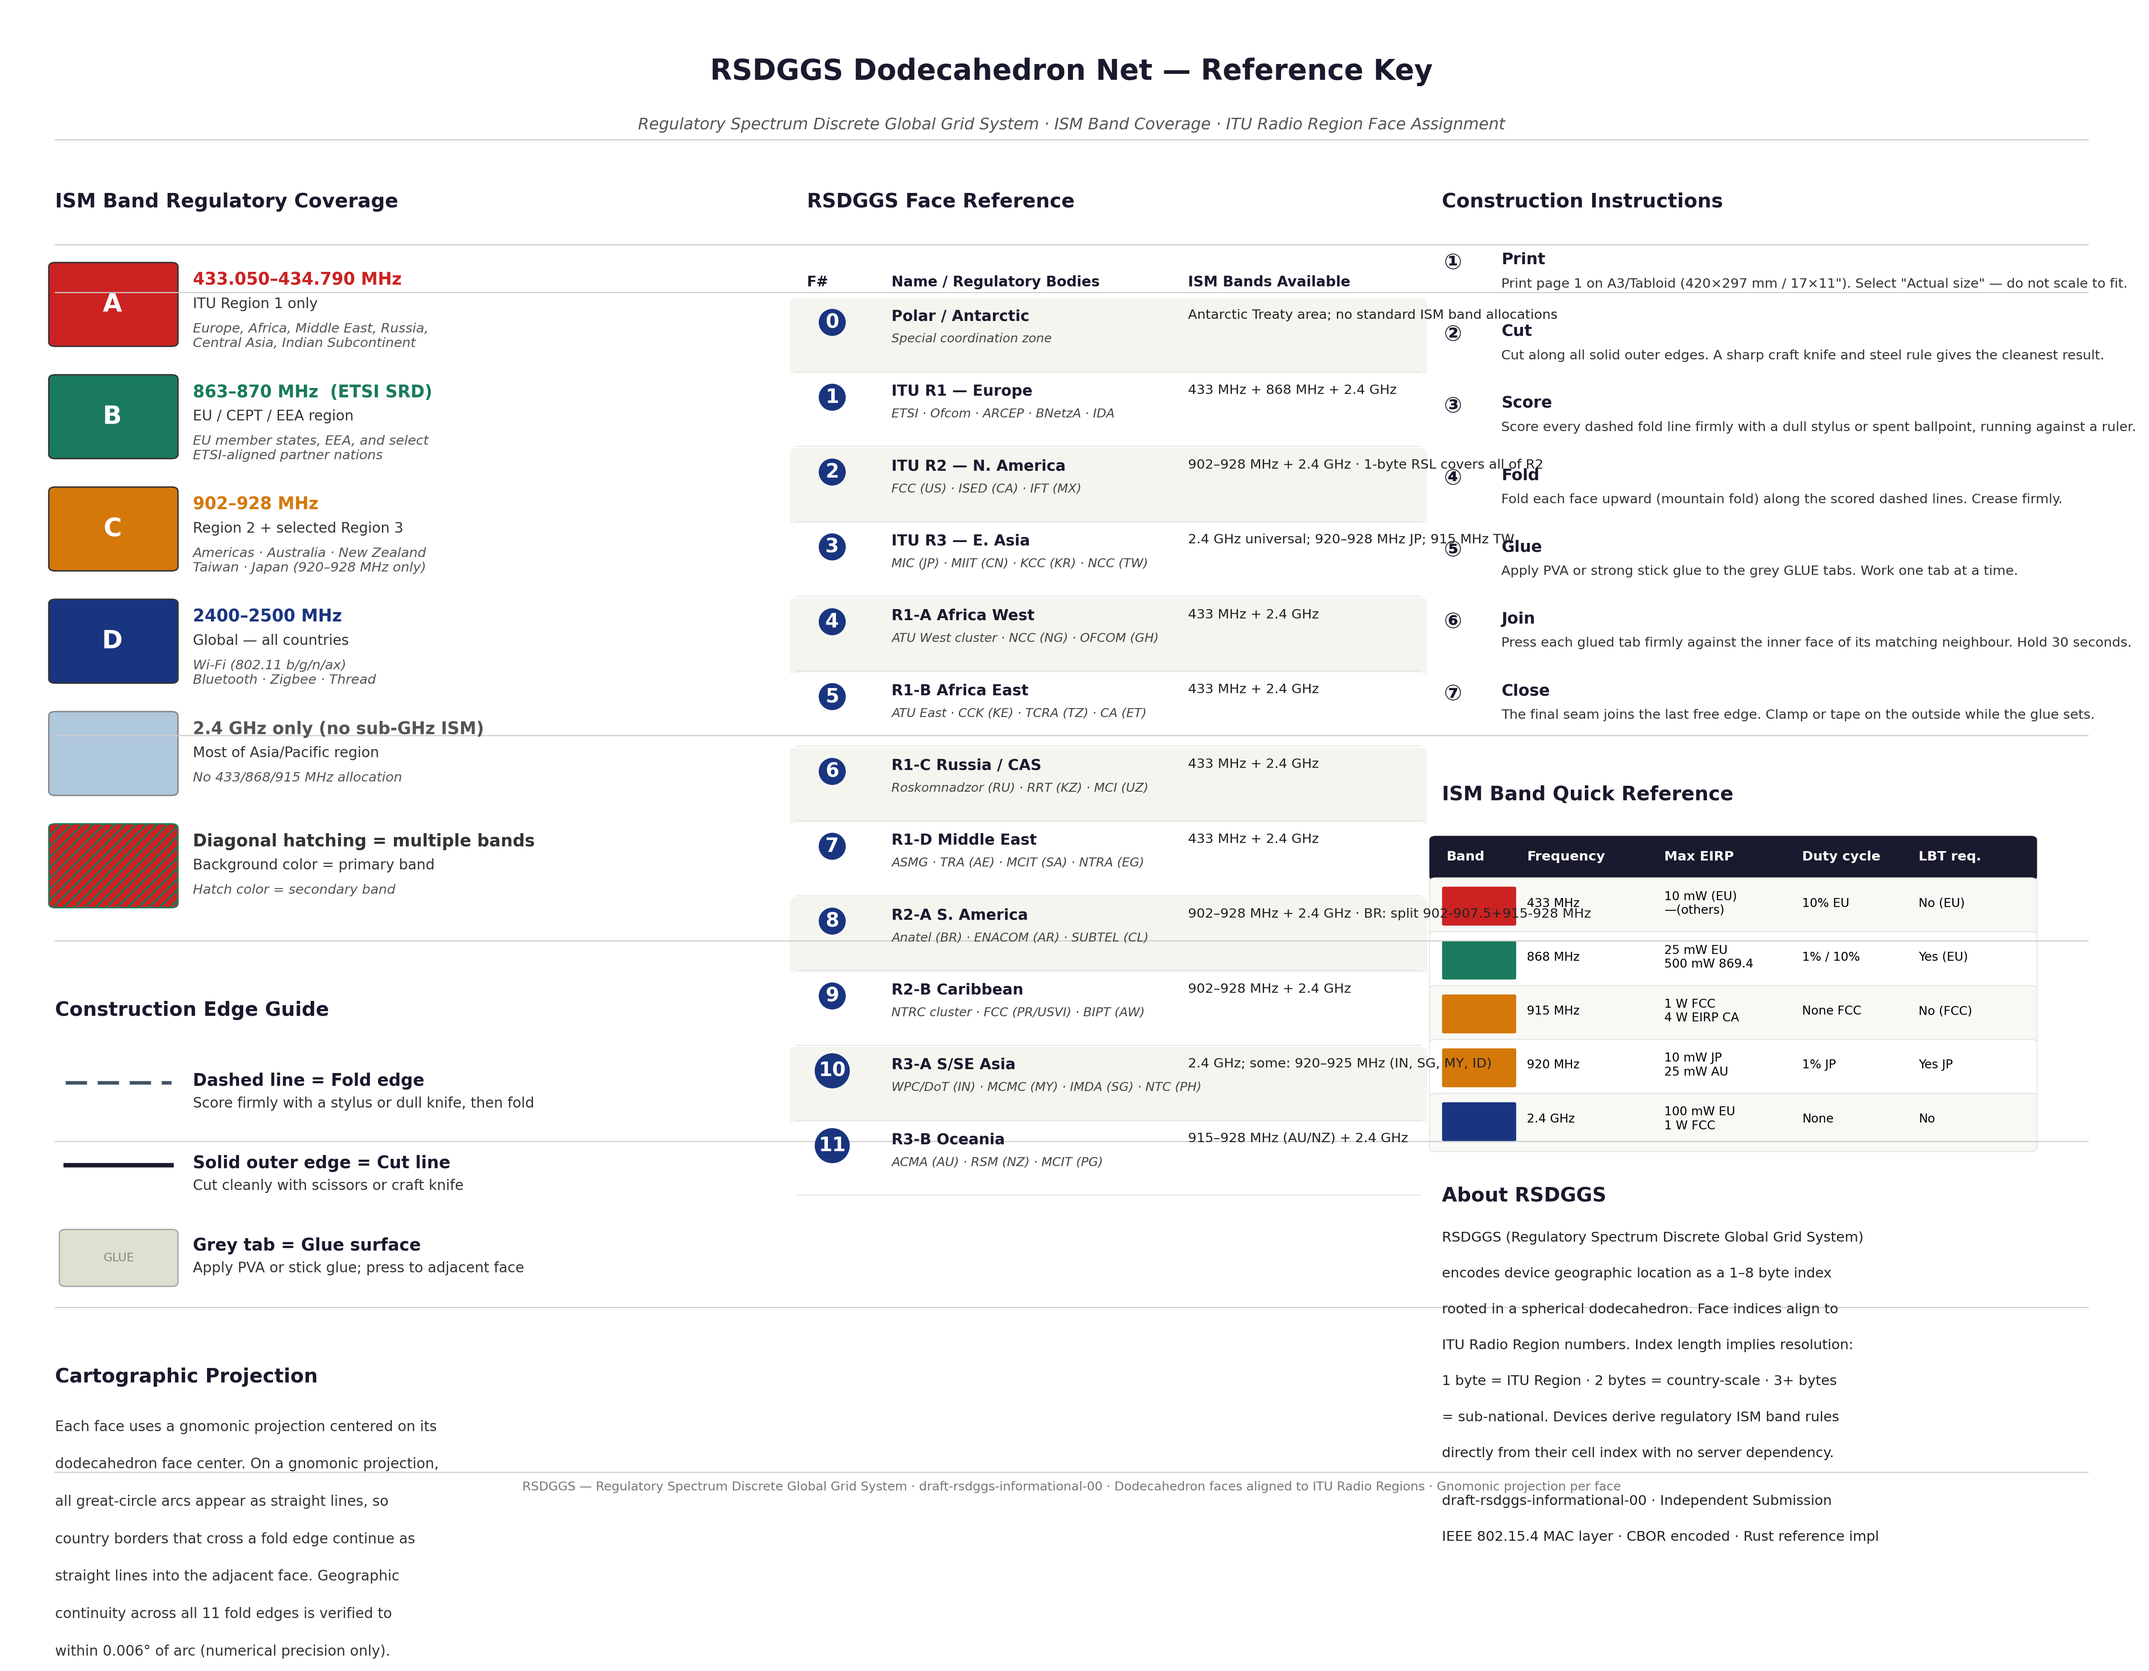
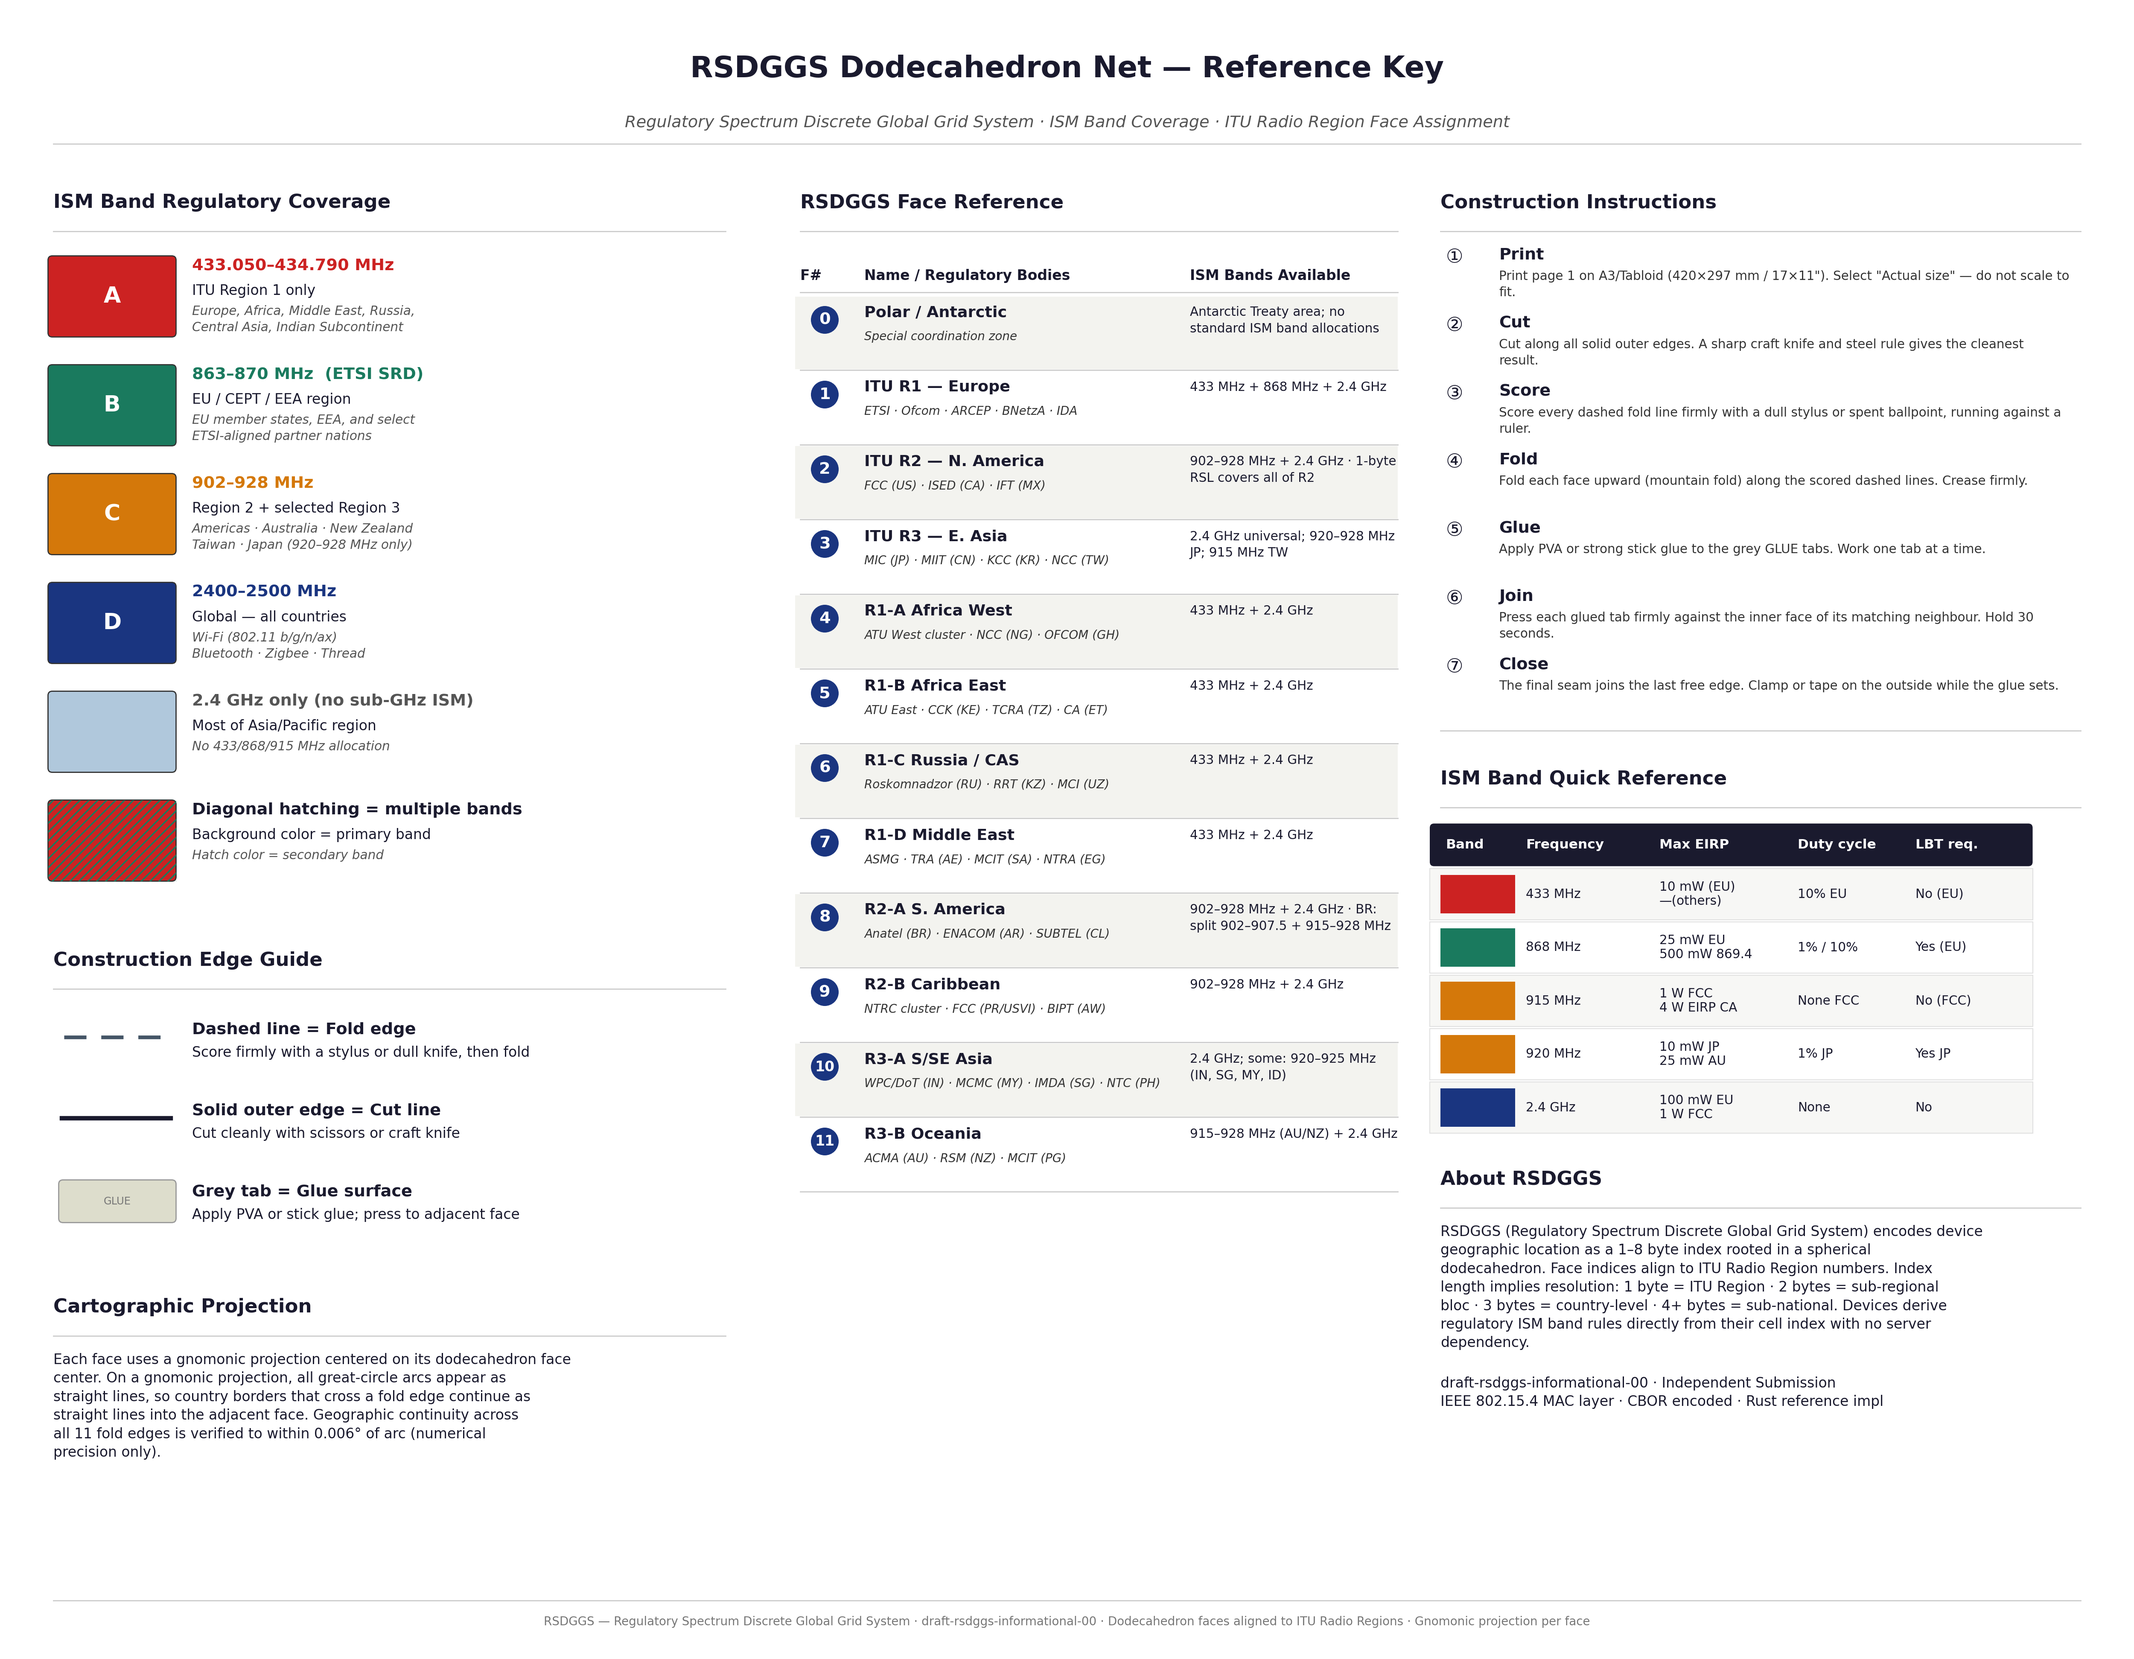
Regenerate Figure 2 (net reference key) from a script
The original PNG came from a matplotlib script that is not in the repo.
Redraw it with images/rsdggs_net_page2.py, keeping the layout and text,
and fix two things: the "About" resolution line now follows draft §5.2,
and long entries wrap inside their columns instead of overlapping.

diff --git a/images/rsdggs_net_page2.py b/images/rsdggs_net_page2.py
@@ -1,0 +1,239 @@
+"""Draw Figure 2 of draft-rsdggs-informational-00: the dodecahedron net reference key.
+
+    python images/rsdggs_net_page2.py    # writes images/rsdggs_net_page2.png
+
+Requires matplotlib (built with 3.10.8). Layout coordinates are in a 2000 x 1555
+grid with the origin at the top left.
+"""
+
+import textwrap
+from pathlib import Path
+
+import matplotlib
+
+matplotlib.use("Agg")
+import matplotlib.pyplot as plt
+from matplotlib.patches import Circle, FancyBboxPatch, Rectangle
+
+W, H = 2000, 1555
+INK = "#1A1A2E"
+GREY = "#555555"
+RULE = "#CCCCCC"
+SHADE = "#F3F3EF"
+NAVY = "#1A3580"
+
+BANDS = [
+    # letter, fill, hatch, title, title color, line, detail
+    ("A", "#CC2222", None, "433.050–434.790 MHz", "#CC2222", "ITU Region 1 only",
+     "Europe, Africa, Middle East, Russia,\nCentral Asia, Indian Subcontinent"),
+    ("B", "#1A7A5E", None, "863–870 MHz  (ETSI SRD)", "#1A7A5E", "EU / CEPT / EEA region",
+     "EU member states, EEA, and select\nETSI-aligned partner nations"),
+    ("C", "#D4780A", None, "902–928 MHz", "#D4780A", "Region 2 + selected Region 3",
+     "Americas · Australia · New Zealand\nTaiwan · Japan (920–928 MHz only)"),
+    ("D", NAVY, None, "2400–2500 MHz", NAVY, "Global — all countries",
+     "Wi-Fi (802.11 b/g/n/ax)\nBluetooth · Zigbee · Thread"),
+    ("", "#B0C8DC", None, "2.4 GHz only (no sub-GHz ISM)", GREY, "Most of Asia/Pacific region",
+     "No 433/868/915 MHz allocation"),
+    ("", "#CC2222", "#1A7A5E", "Diagonal hatching = multiple bands", INK,
+     "Background color = primary band", "Hatch color = secondary band"),
+]
+
+FACES = [
+    ("Polar / Antarctic", "Special coordination zone",
+     "Antarctic Treaty area; no standard ISM band allocations"),
+    ("ITU R1 — Europe", "ETSI · Ofcom · ARCEP · BNetzA · IDA", "433 MHz + 868 MHz + 2.4 GHz"),
+    ("ITU R2 — N. America", "FCC (US) · ISED (CA) · IFT (MX)",
+     "902–928 MHz + 2.4 GHz · 1-byte RSL covers all of R2"),
+    ("ITU R3 — E. Asia", "MIC (JP) · MIIT (CN) · KCC (KR) · NCC (TW)",
+     "2.4 GHz universal; 920–928 MHz JP; 915 MHz TW"),
+    ("R1-A Africa West", "ATU West cluster · NCC (NG) · OFCOM (GH)", "433 MHz + 2.4 GHz"),
+    ("R1-B Africa East", "ATU East · CCK (KE) · TCRA (TZ) · CA (ET)", "433 MHz + 2.4 GHz"),
+    ("R1-C Russia / CAS", "Roskomnadzor (RU) · RRT (KZ) · MCI (UZ)", "433 MHz + 2.4 GHz"),
+    ("R1-D Middle East", "ASMG · TRA (AE) · MCIT (SA) · NTRA (EG)", "433 MHz + 2.4 GHz"),
+    ("R2-A S. America", "Anatel (BR) · ENACOM (AR) · SUBTEL (CL)",
+     "902–928 MHz + 2.4 GHz · BR: split 902–907.5 + 915–928 MHz"),
+    ("R2-B Caribbean", "NTRC cluster · FCC (PR/USVI) · BIPT (AW)", "902–928 MHz + 2.4 GHz"),
+    ("R3-A S/SE Asia", "WPC/DoT (IN) · MCMC (MY) · IMDA (SG) · NTC (PH)",
+     "2.4 GHz; some: 920–925 MHz (IN, SG, MY, ID)"),
+    ("R3-B Oceania", "ACMA (AU) · RSM (NZ) · MCIT (PG)", "915–928 MHz (AU/NZ) + 2.4 GHz"),
+]
+
+STEPS = [
+    ("Print", 'Print page 1 on A3/Tabloid (420×297 mm / 17×11"). Select "Actual size" — '
+              "do not scale to fit."),
+    ("Cut", "Cut along all solid outer edges. A sharp craft knife and steel rule gives the "
+            "cleanest result."),
+    ("Score", "Score every dashed fold line firmly with a dull stylus or spent ballpoint, "
+              "running against a ruler."),
+    ("Fold", "Fold each face upward (mountain fold) along the scored dashed lines. "
+             "Crease firmly."),
+    ("Glue", "Apply PVA or strong stick glue to the grey GLUE tabs. Work one tab at a time."),
+    ("Join", "Press each glued tab firmly against the inner face of its matching neighbour. "
+             "Hold 30 seconds."),
+    ("Close", "The final seam joins the last free edge. Clamp or tape on the outside while "
+              "the glue sets."),
+]
+
+QUICK = [
+    ("#CC2222", "433 MHz", "10 mW (EU)\n—(others)", "10% EU", "No (EU)"),
+    ("#1A7A5E", "868 MHz", "25 mW EU\n500 mW 869.4", "1% / 10%", "Yes (EU)"),
+    ("#D4780A", "915 MHz", "1 W FCC\n4 W EIRP CA", "None FCC", "No (FCC)"),
+    ("#D4780A", "920 MHz", "10 mW JP\n25 mW AU", "1% JP", "Yes JP"),
+    (NAVY, "2.4 GHz", "100 mW EU\n1 W FCC", "None", "No"),
+]
+
+CARTOGRAPHY = (
+    "Each face uses a gnomonic projection centered on its dodecahedron face center. "
+    "On a gnomonic projection, all great-circle arcs appear as straight lines, so country "
+    "borders that cross a fold edge continue as straight lines into the adjacent face. "
+    "Geographic continuity across all 11 fold edges is verified to within 0.006° of arc "
+    "(numerical precision only)."
+)
+
+# Resolution per index length follows draft §5.2.
+ABOUT = (
+    "RSDGGS (Regulatory Spectrum Discrete Global Grid System) encodes device geographic "
+    "location as a 1–8 byte index rooted in a spherical dodecahedron. Face indices align "
+    "to ITU Radio Region numbers. Index length implies resolution: 1 byte = ITU Region · "
+    "2 bytes = sub-regional bloc · 3 bytes = country-level · 4+ bytes = sub-national. "
+    "Devices derive regulatory ISM band rules directly from their cell index with no "
+    "server dependency."
+)
+
+FOOTER = (
+    "RSDGGS — Regulatory Spectrum Discrete Global Grid System · draft-rsdggs-informational-00"
+    " · Dodecahedron faces aligned to ITU Radio Regions · Gnomonic projection per face"
+)
+
+
+def text(ax, x, y, s, size=9.5, color=INK, weight="normal", style="normal", **kw):
+    ax.text(x, y, s, fontsize=size, color=color, fontweight=weight, fontstyle=style,
+            va=kw.pop("va", "top"), ha=kw.pop("ha", "left"),
+            linespacing=kw.pop("linespacing", 1.4), **kw)
+
+
+def rule(ax, x0, x1, y):
+    ax.plot([x0, x1], [y, y], color=RULE, lw=0.8)
+
+
+def heading(ax, x0, x1, y, s):
+    text(ax, x0, y, s, size=13, weight="bold", va="baseline")
+    rule(ax, x0, x1, y + 22)
+
+
+def legend(ax, x0, x1):
+    heading(ax, x0, x1, 195, "ISM Band Regulatory Coverage")
+    for k, (letter, fill, hatch, title, tcolor, line, detail) in enumerate(BANDS):
+        y = 240 + 102 * k
+        box = FancyBboxPatch((x0 - 5, y), 120, 76, boxstyle="round,pad=0,rounding_size=4",
+                             facecolor=fill, edgecolor="#333333", lw=0.8)
+        ax.add_patch(box)
+        if hatch:
+            ax.add_patch(Rectangle((x0 - 5, y), 120, 76, fill=False, hatch="////",
+                                   edgecolor=hatch, lw=0))
+        if letter:
+            text(ax, x0 + 55, y + 38, letter, size=15, color="white", weight="bold",
+                 ha="center", va="center")
+        text(ax, x0 + 130, y + 2, title, size=11, color=tcolor, weight="bold")
+        text(ax, x0 + 130, y + 26, line, size=9.5)
+        text(ax, x0 + 130, y + 46, detail, size=8.5, color=GREY, style="italic")
+
+    heading(ax, x0, x1, 905, "Construction Edge Guide")
+    items = [
+        ("dash", "Dashed line = Fold edge", "Score firmly with a stylus or dull knife, then fold"),
+        ("solid", "Solid outer edge = Cut line", "Cut cleanly with scissors or craft knife"),
+        ("glue", "Grey tab = Glue surface", "Apply PVA or stick glue; press to adjacent face"),
+    ]
+    for k, (kind, title, line) in enumerate(items):
+        y = 960 + 76 * k
+        if kind == "dash":
+            ax.plot([x0 + 10, x0 + 110], [y + 12, y + 12], color="#445566", lw=2.5,
+                    dashes=(6, 4))
+        elif kind == "solid":
+            ax.plot([x0 + 8, x0 + 110], [y + 12, y + 12], color=INK, lw=3)
+        else:
+            ax.add_patch(FancyBboxPatch((x0 + 5, y - 6), 110, 40,
+                                        boxstyle="round,pad=0,rounding_size=4",
+                                        facecolor="#DDDDCC", edgecolor="#999999", lw=0.8))
+            text(ax, x0 + 60, y + 14, "GLUE", size=7, color="#777777", ha="center",
+                 va="center")
+        text(ax, x0 + 130, y - 2, title, size=11, weight="bold")
+        text(ax, x0 + 130, y + 20, line, size=9.5)
+
+    heading(ax, x0, x1, 1230, "Cartographic Projection")
+    text(ax, x0, 1268, textwrap.fill(CARTOGRAPHY, 70), size=9.5)
+
+
+def faces(ax, x0, x1):
+    heading(ax, x0, x1, 195, "RSDGGS Face Reference")
+    cols = (x0, x0 + 60, x0 + 365)
+    for x, s in zip(cols, ("F#", "Name / Regulatory Bodies", "ISM Bands Available")):
+        text(ax, x, 252, s, size=9.5, weight="bold")
+    rule(ax, x0, x1, 274)
+    for k, (name, bodies, bands) in enumerate(FACES):
+        y = 278 + 70 * k
+        if k % 2 == 0:
+            ax.add_patch(Rectangle((x0 - 5, y), x1 - x0 + 5, 68, facecolor=SHADE, lw=0))
+        rule(ax, x0, x1, y + 69)
+        ax.add_patch(Circle((x0 + 23, y + 22), 13, facecolor=NAVY, lw=0))
+        text(ax, x0 + 23, y + 22, str(k), size=11 if k < 10 else 9.5, color="white",
+             weight="bold", ha="center", va="center")
+        text(ax, cols[1], y + 8, name, size=10.5, weight="bold")
+        text(ax, cols[1], y + 32, bodies, size=8, color="#333333", style="italic")
+        text(ax, cols[2], y + 9, textwrap.fill(bands, 30), size=8.5)
+
+
+def right(ax, x0, x1):
+    heading(ax, x0, x1, 195, "Construction Instructions")
+    for k, (title, body) in enumerate(STEPS):
+        y = 232 + 64 * k
+        text(ax, x0 + 5, y, chr(0x2460 + k), size=13)
+        text(ax, x0 + 55, y, title, size=11, weight="bold")
+        text(ax, x0 + 55, y + 21, textwrap.fill(body, 92), size=8.5, color="#333333")
+    rule(ax, x0, x1, 685)
+
+    heading(ax, x0, x1, 735, "ISM Band Quick Reference")
+    cx = (x0 + 5, x0 + 80, x0 + 205, x0 + 335, x0 + 445)
+    ax.add_patch(FancyBboxPatch((x0 - 10, 772), 565, 40, boxstyle="round,pad=0,rounding_size=4",
+                                facecolor=INK, lw=0))
+    for x, s in zip(cx, ("Band", "Frequency", "Max EIRP", "Duty cycle", "LBT req.")):
+        text(ax, x, 792, s, size=9, color="white", weight="bold", va="center")
+    for k, (fill, freq, eirp, duty, lbt) in enumerate(QUICK):
+        y = 814 + 50 * k
+        ax.add_patch(Rectangle((x0 - 10, y), 565, 48, facecolor="#F7F7F5" if k % 2 == 0
+                               else "white", edgecolor="#E0E0E0", lw=0.6))
+        ax.add_patch(Rectangle((x0, y + 6), 70, 36, facecolor=fill, lw=0))
+        for x, s in zip(cx[1:], (freq, eirp, duty, lbt)):
+            text(ax, x, y + 24, s, size=8.5, va="center", linespacing=1.2)
+
+    heading(ax, x0, x1, 1110, "About RSDGGS")
+    text(ax, x0, 1148, textwrap.fill(ABOUT, 72), size=9.5)
+    text(ax, x0, 1290, "draft-rsdggs-informational-00 · Independent Submission\n"
+                       "IEEE 802.15.4 MAC layer · CBOR encoded · Rust reference impl",
+         size=9.5)
+
+
+def main():
+    fig = plt.figure(figsize=(W / 100, H / 100))
+    ax = fig.add_axes((0, 0, 1, 1))
+    ax.set_xlim(0, W)
+    ax.set_ylim(H, 0)
+    ax.axis("off")
+    text(ax, W / 2, 65, "RSDGGS Dodecahedron Net — Reference Key", size=20, weight="bold",
+         ha="center", va="center")
+    text(ax, W / 2, 115, "Regulatory Spectrum Discrete Global Grid System · ISM Band Coverage"
+                         " · ITU Radio Region Face Assignment", size=11, color=GREY,
+         style="italic", ha="center", va="center")
+    rule(ax, 50, 1950, 135)
+    legend(ax, 50, 680)
+    faces(ax, 750, 1310)
+    right(ax, 1350, 1950)
+    rule(ax, 50, 1950, 1500)
+    text(ax, W / 2, 1520, FOOTER, size=8, color="#777777", ha="center", va="center")
+    out = Path(__file__).with_suffix(".png")
+    fig.savefig(out, dpi=250, facecolor="white")
+    print(out)
+
+
+if __name__ == "__main__":
+    main()

diff --git a/draft/README.md b/draft/README.md
@@ -13,4 +13,4 @@ History of this file:
 2. The 4-bit triangle selector change (§4.4, §5, §7, §13.2, §14, §17.2, §18), including the §5.2 table.
 3. The tables and lists restored from the last docx draft (`draft-rsdggs-informational-00_10.docx`), copied as they were. The docx repeats the §4.1.3 table; it appears once here. The export had replaced the §16.11 table with a two-column ASCII summary and dropped the section's two closing paragraphs; both are restored.
 
-The two figures (Figure 1, the dodecahedron net, and Figure 2, its reference key) are images. The draft links to them in `images/` (`rsdggs_net_page1.png`, `rsdggs_net_page2.png`) instead of embedding them.
+The two figures (Figure 1, the dodecahedron net, and Figure 2, its reference key) are images. The draft links to them in `images/` (`rsdggs_net_page1.png`, `rsdggs_net_page2.png`) instead of embedding them. Figure 2 is drawn by `images/rsdggs_net_page2.py` (matplotlib); edit the script and re-run it rather than editing the PNG.
